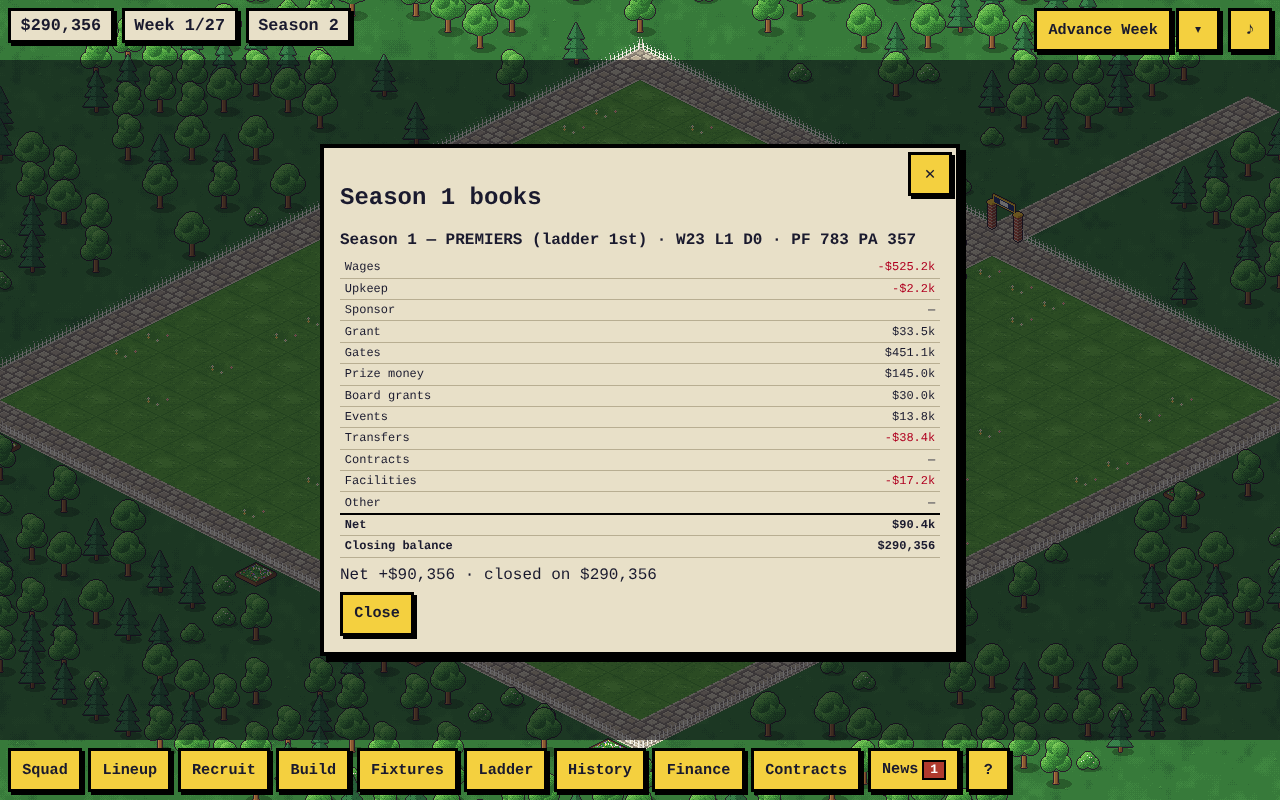
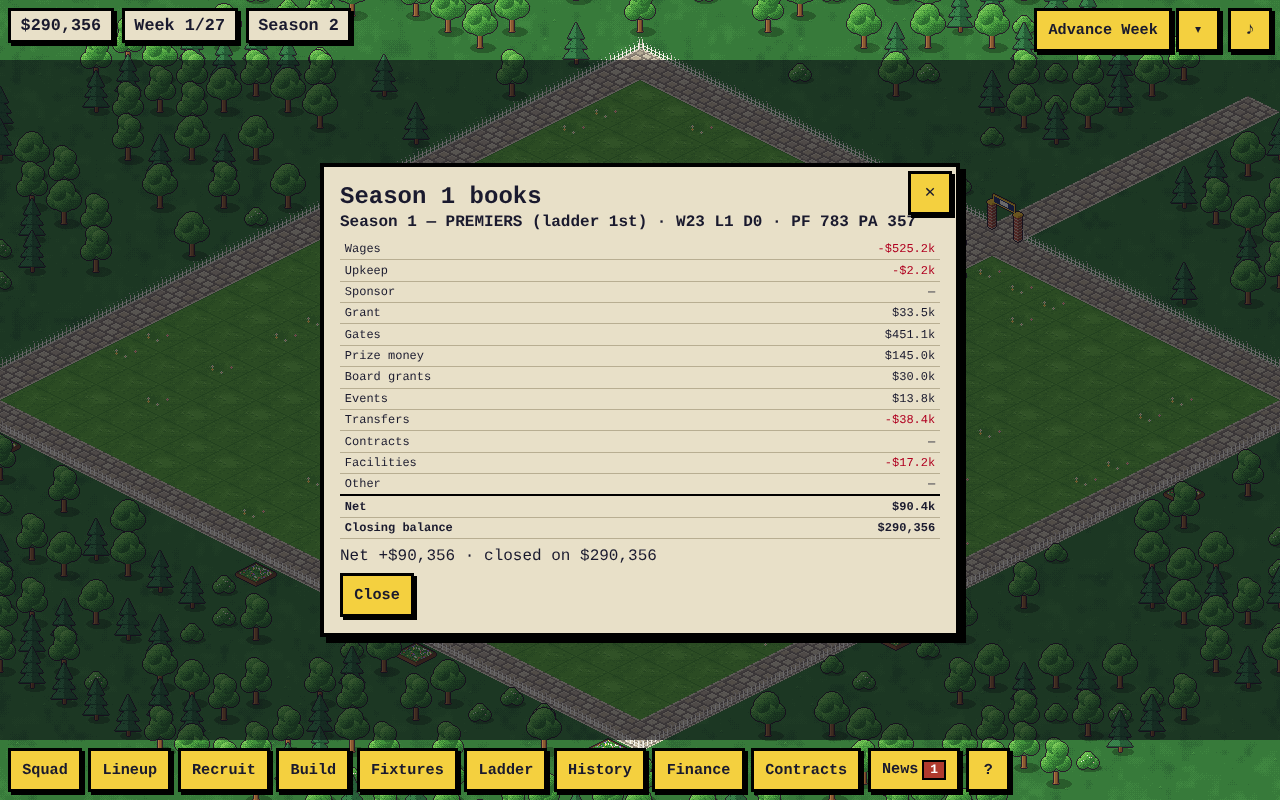
N14.4: checker notes: the books' table scrolls so Close stays in view; books kept from save v10
Claude-Session: https://claude.ai/code/session_01N7338N8opitSS6Cinrbj6Y

Changed region(s): [[0.25, 0.1562, 0.7812, 0.8438]]

diff --git a/src/ui/dom.ts b/src/ui/dom.ts
@@ -618,6 +618,12 @@ body.nrl-match-active .nrl-update-toast { display: none; }
 .nrl-books-heading { margin: 0 0 0.5rem; font-weight: bold; }
 .nrl-books-summary { margin: 0.5rem 0; }
 .nrl-books-closing td { font-weight: bold; border-top: 1px solid #c8c0a8; }
+/* Only the table scrolls, so the heading, the summary and Close stay in view at phone height. */
+.nrl-screen-backdrop .nrl-books-modal { display: flex; flex-direction: column; }
+.nrl-season-books { display: flex; flex-direction: column; flex: 1 1 auto; min-height: 0; }
+.nrl-season-books > .nrl-finance-scroll { flex: 1 1 auto; min-height: 0; overflow-y: auto; overscroll-behavior: contain; }
+.nrl-season-books h2 { margin: 0 0 0.2rem; }
+.nrl-books-close { align-self: flex-start; }
 .nrl-finance-past { margin-top: 0.4rem; }
 
 /* ── Season review (N7, #190) ──────────────────────────────────────────── */

diff --git a/src/ui/screens/history.ts b/src/ui/screens/history.ts
@@ -166,7 +166,7 @@ export function fmtBooksHeading(entry: SeasonHistoryEntry): string {
 /**
  * A past season's books (N14, #262): every line of its P&L, the net and the
  * balance it closed on, under the season's one-line summary. Seasons from before
- * the books were kept (save v12) say so.
+ * the books were kept (save v10) say so.
  */
 export function openSeasonBooks(entry: SeasonHistoryEntry, opts: { back?: () => void } = {}): HTMLElement {
   const books = seasonBooks(getState(), entry.season);

diff --git a/src/ui/screens/finance.ts b/src/ui/screens/finance.ts
@@ -306,7 +306,7 @@ export interface SeasonBooks {
   closing: number;
 }
 
-/** One season's books and closing balance, or null when none were kept (seasons before save v12). Pure. */
+/** One season's books and closing balance, or null when none were kept (seasons before save v10). Pure. */
 export function seasonBooks(state: Pick<GameState, 'finance' | 'money'>, season: number): SeasonBooks | null {
   const books = state.finance.find((f) => f.season === season);
   if (!books) return null;

diff --git a/docs/status/2026-10-living.md b/docs/status/2026-10-living.md
@@ -39,7 +39,7 @@ Waiting:
   - every line of its P&L in the books' order, zeros shown as "—";
   - the net and the balance it closed on.
 
-  A season from before the books were kept (save v12) says so. There is no new nav
+  A season from before the books were kept (save v10) says so. There is no new nav
   button.
 - **Finance.** The season P&L gains **Past seasons**, which opens History, once there is a
   finished season.
@@ -48,11 +48,20 @@ Waiting:
 - **The closing balance is derived, not stored.** It is today's balance less every later
   season's net. That holds only if every money movement is booked. A test reads every
   v12+ save in the corpus: the starting balance plus every season's net equals the save's
-  balance, and every season in its History opens its books.
+  balance, and every season in its History opens its books. The checker found the gap zero
+  for v10 and v11 too.
 - The plan says "thirteen lines". The books read `FINANCE_LINES`, so N12.3's thirteenth
   line ("Running costs") shows up without a change here.
 - Screenshots at 844×390 and 1280×800 in `docs/screenshots/262/`: History, the books, the
   review, Finance. Taken from the corpus save `v14-after-rollover`.
+- Checker (a separate reviewer subagent): approved, no must-fix findings. Taken up from
+  its notes:
+  - The wording: books exist from save v10, not v12.
+  - At 844×390 the books' Close went below the fold. Only the table scrolls now.
+- Left as noted:
+  - A v9 save loaded mid-season books only part of that season.
+  - Saves rolled over before #233 may have the prize and grant in the new season, so the
+    season before shows a lower closing balance.
 - Assumed (needs Leon):
   - The closing balance is derived rather than stamped at the rollover, to avoid a save bump.
   - "Past seasons" opens History rather than a second list of seasons.
